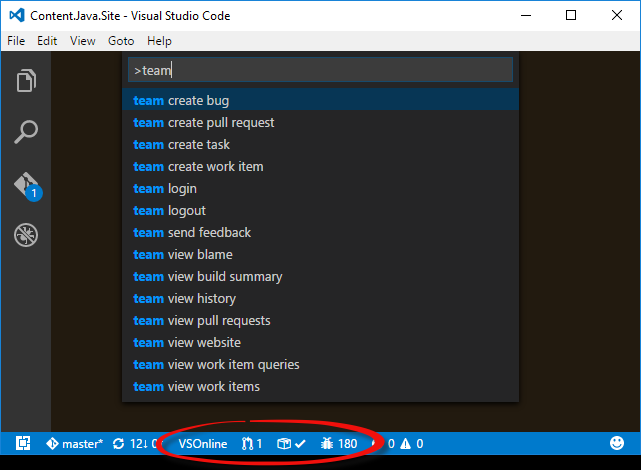
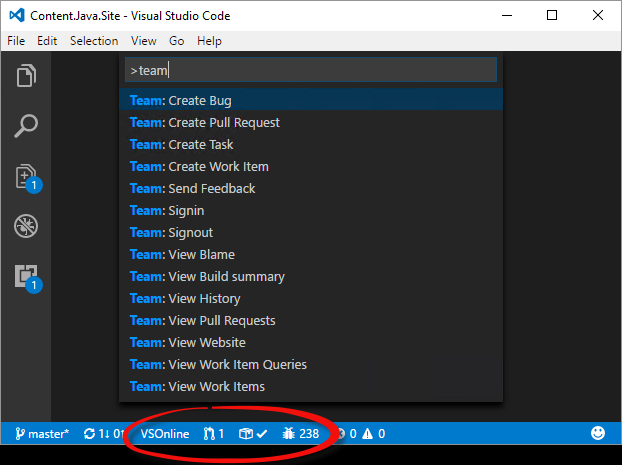
Bump version to 115 (#143)
Need to remove 'associate work item' command since it relies on proposedApi

diff --git a/src/services/telemetry.ts b/src/services/telemetry.ts
@@ -16,7 +16,7 @@ export class Telemetry {
     private static _appInsightsClient: Client;
     private static _serverContext: TeamServerContext;
     private static _telemetryEnabled: boolean = true;
-    private static _extensionVersion: string = "1.113.0";
+    private static _extensionVersion: string = "1.115.0";
     private static _collectionId: string = "UNKNOWN"; //The collectionId can be updated later
     //Default to a new uuid in case the extension fails before being initialized
     private static _userId: string = uuid.v1(); //The userId can be updated later
